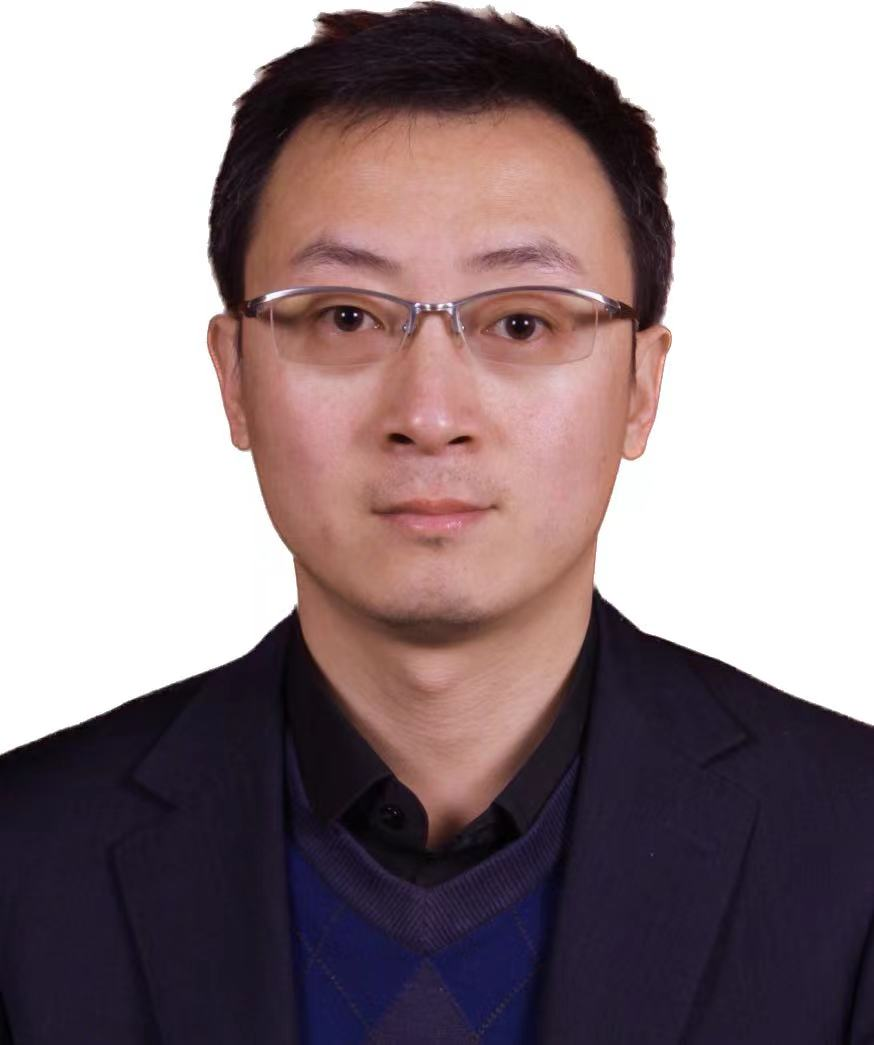
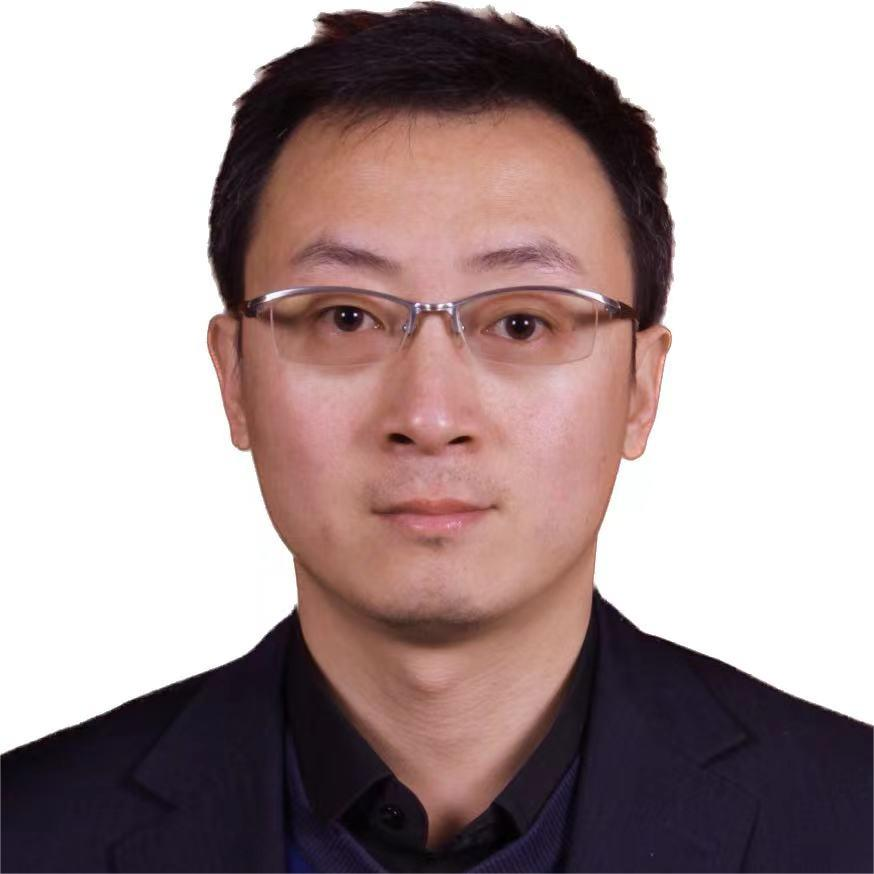
update

diff --git a/css/organizers.css b/css/organizers.css
@@ -6,11 +6,11 @@
 }
 
 .person-container{
-	width: 100%;
+	width: 150%;
 	height: 100px;
 	margin-left: 2%;
-	margin-top: 15%;
-	margin-bottom: 15%;
+	margin-top: 0%;
+	margin-bottom: 10%;
 }
 
 .person-container .name{

diff --git a/volunteer.php b/volunteer.php
@@ -10,7 +10,7 @@ require 'header-left-bar.php'; //THIS MUST BE INCLUDED FOR EACH PAGE
     <!-- 左侧部分：人物介绍 -->
     <div style="flex: 3;">
 		<div class="flex flex-auto person-container">
-			<div class="pic headshot round" style="background:url(images/organizers/.png);background-size:100px 100px;"></div>
+			<div class="pic headshot round" style="background:url(images/organizers/RuiWang.jpg);background-size:100px 100px;"></div>
 			<div class="info-container">
 				<div class="name">Rui Wang</div>
 				<div class="role bold">Volunteer Chair</div>
